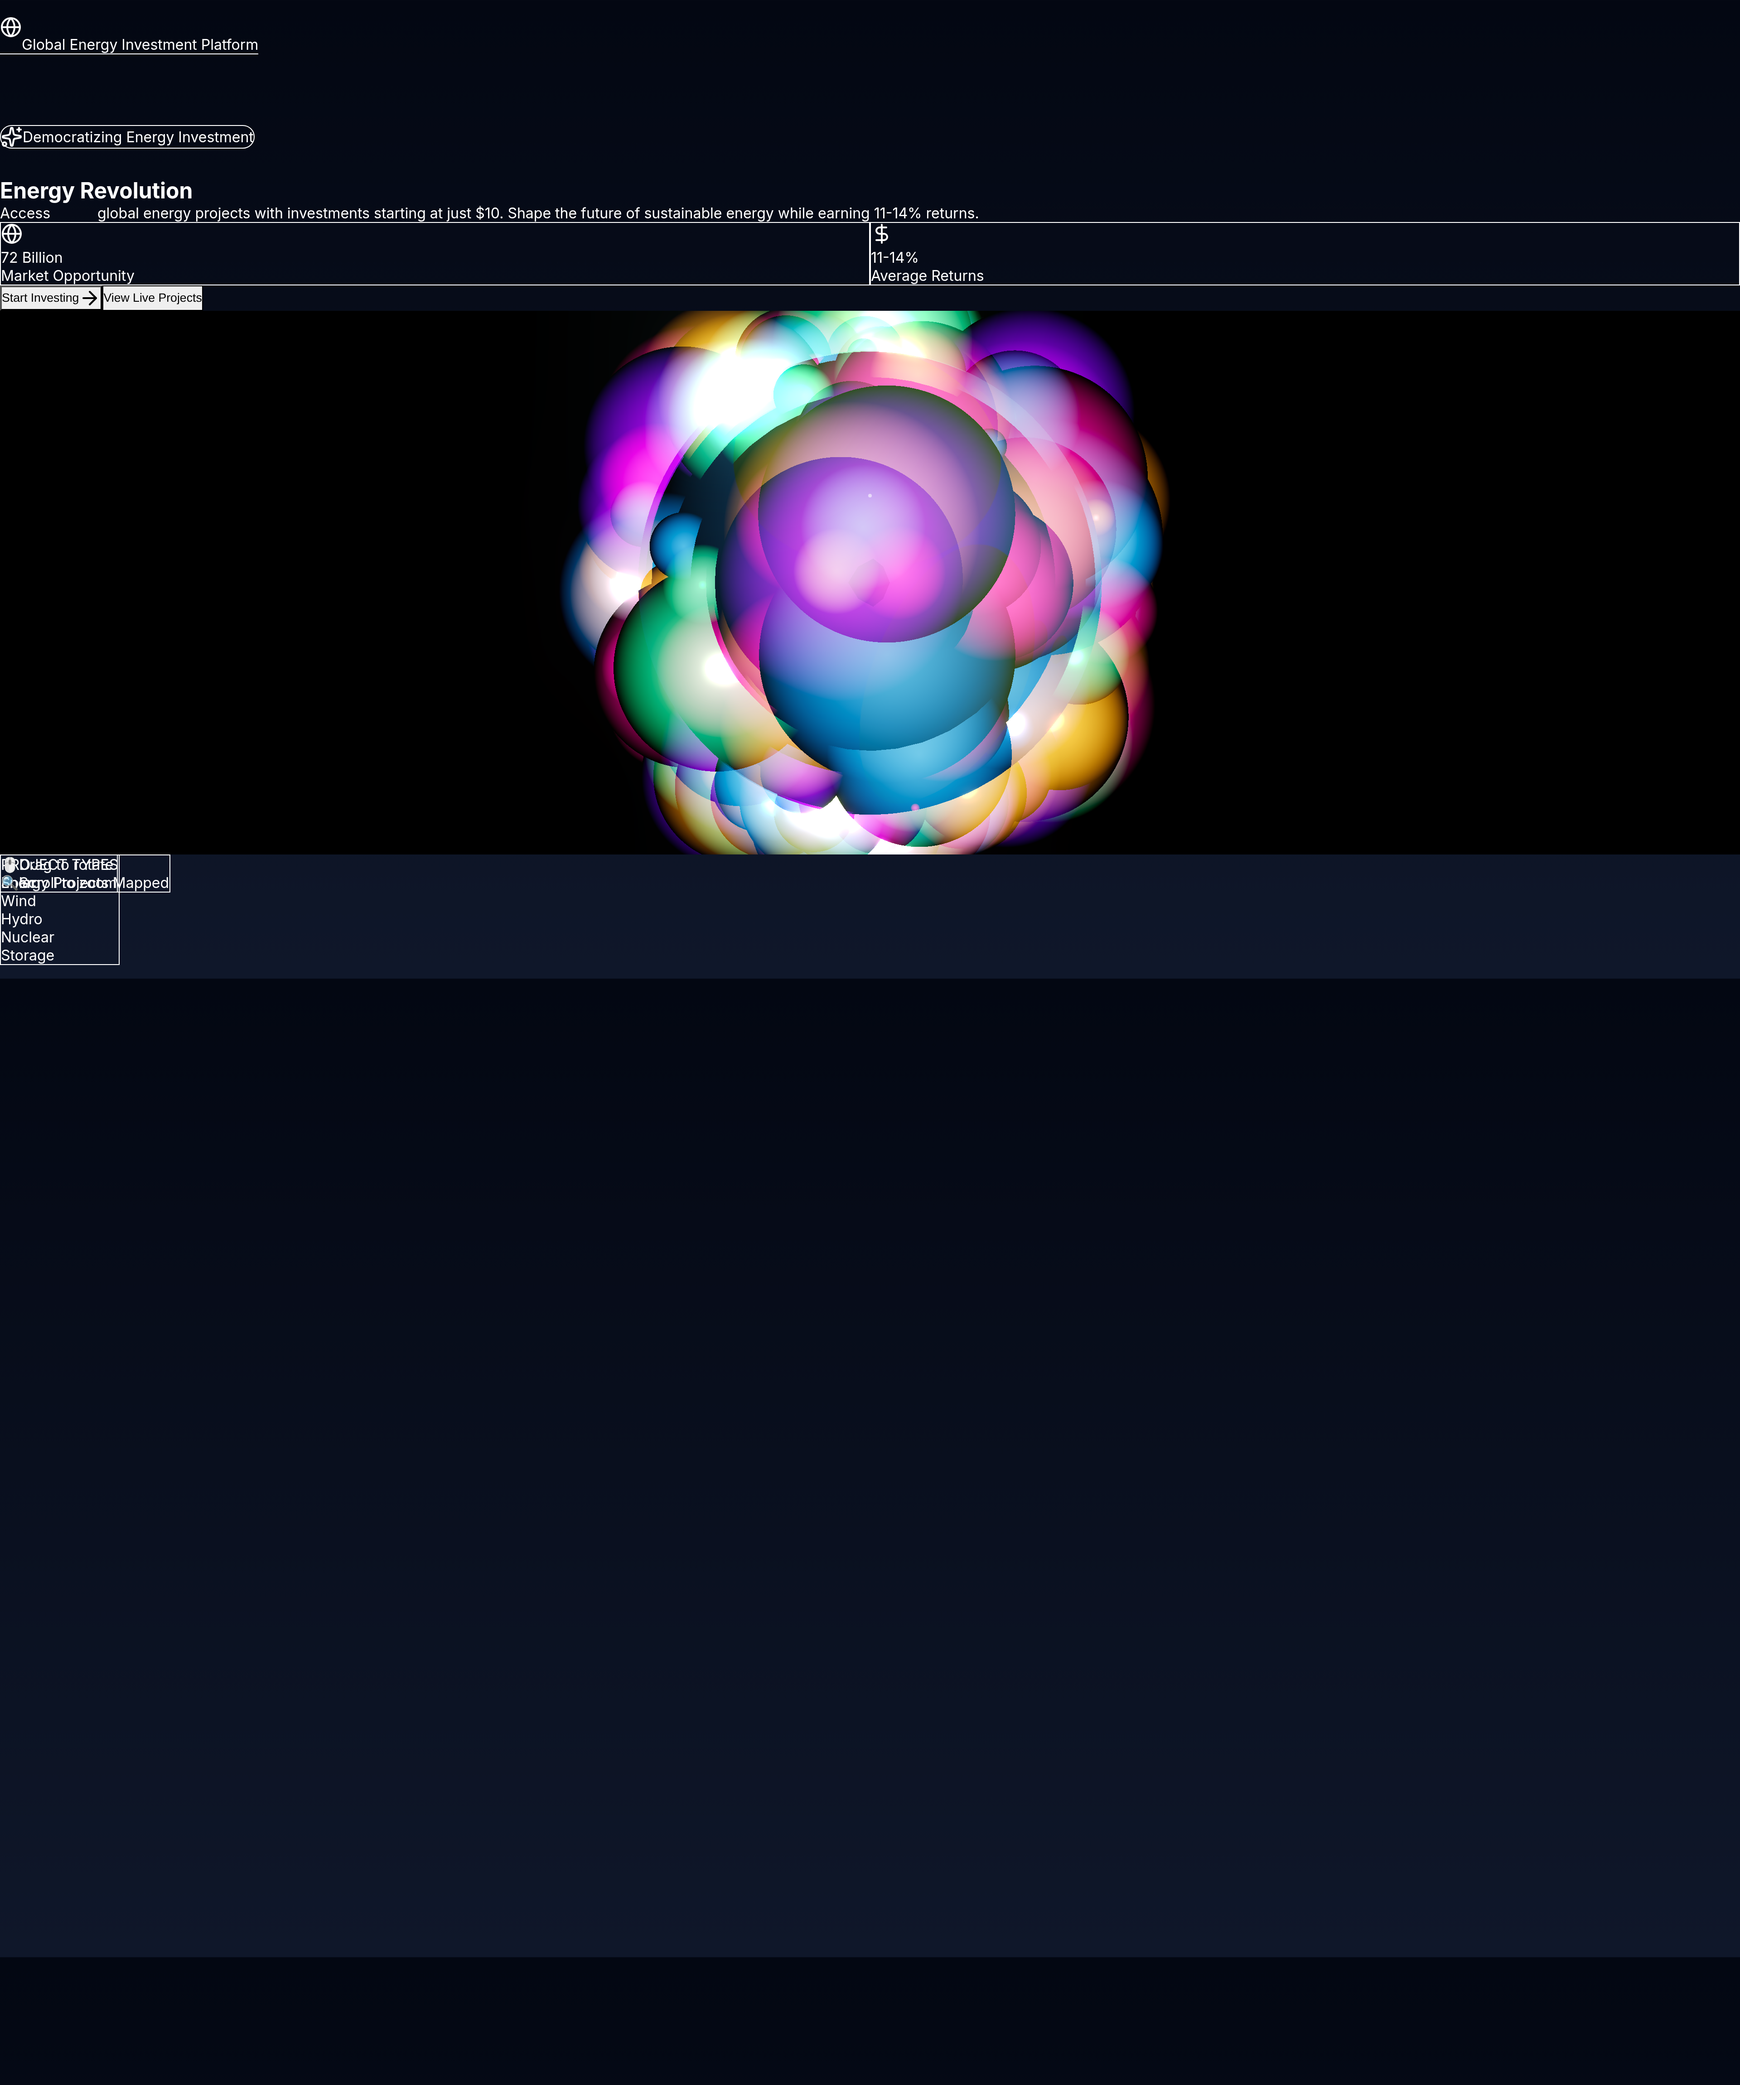
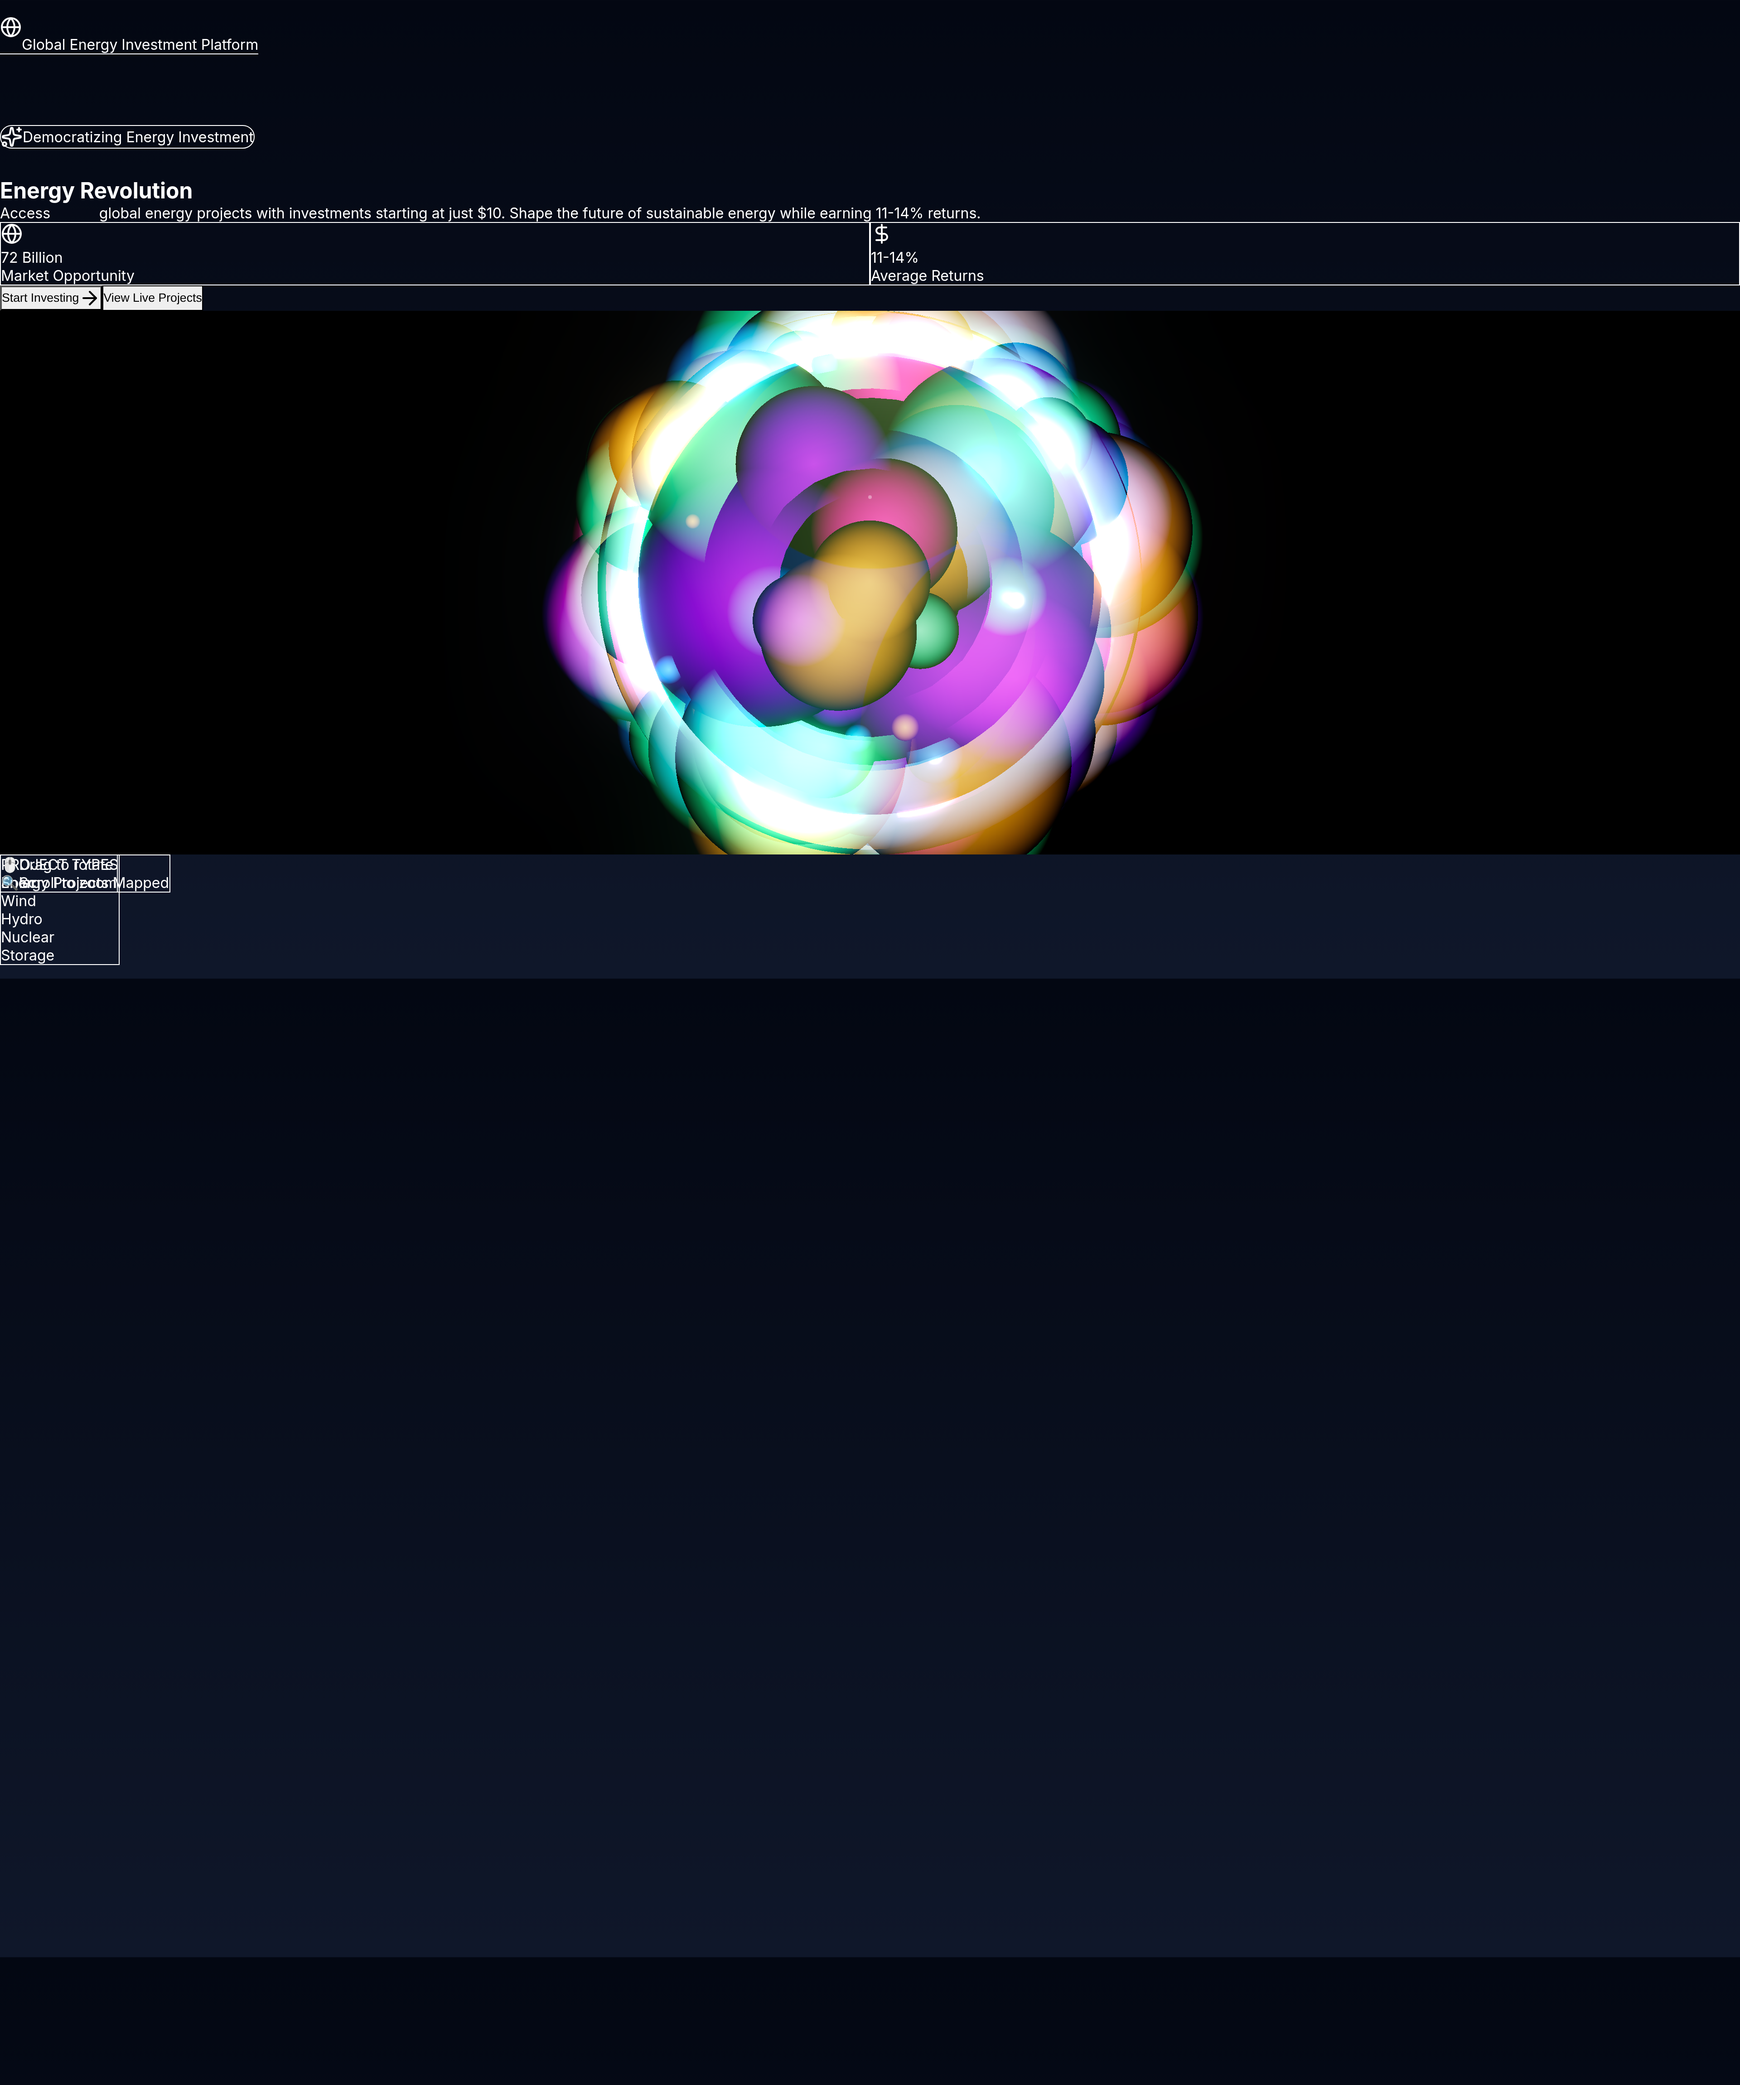
🧹 Remove all label handlers - HTML elements only
- Removed .labelsData() tooltip handlers (unused with empty array)
- Kept only .htmlElementsData() for flat icon markers
- Simplified configuration - no label hover handlers needed
- HTML elements have their own onclick/onmouseenter handlers

This should eliminate any residual 3D geometry rendering.

Changed region(s): [[0.3125, 0.1243, 0.6875, 0.435]]

diff --git a/components/TerraGlobeBackground.tsx b/components/TerraGlobeBackground.tsx
@@ -395,69 +395,10 @@ export default function TerraGlobeBackground() {
           return el
         })
 
-        // Remove old 3D point configuration
+        // Remove ALL 3D geometry - use only flat HTML icon markers!
         .pointsData([]) // No 3D spheres!
-
-        // Keep labels for detailed hover info
-        .labelsData(preparedSites)
-        .labelLat('lat')
-        .labelLng('lng')
-        .labelText('name')
-        .labelSize(0)
-        .labelDotRadius(0)
-        .labelLabel((d: any) => {
-          // Simple tooltip for clustered projects
-          const typeColors: Record<string, string> = {
-            solar: '#fbbf24',
-            wind: '#60a5fa',
-            hydro: '#34d399',
-            geothermal: '#f97316',
-            renewable: '#a855f7'
-          }
-
-          const color = typeColors[d.type] || '#a855f7'
-
-          return `
-            <div style="
-              background: linear-gradient(135deg, rgba(0,0,0,0.95) 0%, rgba(16,24,48,0.95) 100%);
-              border: 1px solid ${color}40;
-              border-radius: 12px;
-              padding: 12px 16px;
-              font-family: -apple-system, BlinkMacSystemFont, 'Segoe UI', Roboto, sans-serif;
-              box-shadow: 0 8px 32px rgba(0,0,0,0.8);
-              backdrop-filter: blur(10px);
-              min-width: 240px;
-            ">
-              <div style="font-size: 16px; font-weight: 600; color: #ffffff; margin-bottom: 8px;">
-                ${d.icon} ${d.name}
-              </div>
-              <div style="display: flex; gap: 8px; flex-wrap: wrap; margin-bottom: 6px;">
-                <span style="
-                  background: ${color}30;
-                  color: ${color};
-                  padding: 2px 8px;
-                  border-radius: 4px;
-                  font-size: 12px;
-                  font-weight: 500;
-                  text-transform: capitalize;
-                ">
-                  ${d.type}
-                </span>
-                <span style="color: #cbd5e1; font-size: 12px;">
-                  ${d.totalCapacity.toLocaleString()} MW
-                </span>
-              </div>
-              ${d.count > 1 ? `
-                <div style="font-size: 13px; color: #60a5fa; margin-top: 8px; padding-top: 8px; border-top: 1px solid #ffffff10;">
-                  📍 ${d.count} projects in this area
-                </div>
-              ` : ''}
-              <div style="font-size: 11px; color: #64748b; margin-top: 6px;">
-                Click to explore details
-              </div>
-            </div>
-          `
-        })
+        .labelsData([]) // No label dots!
+        // Tooltips are handled by HTML elements' onclick/onmouseenter
         
       // Set initial view - perfectly centered with optimal distance
       globe.pointOfView({ lat: 10, lng: 0, altitude: 2.2 }, 0) // Further back to see the whole Earth
